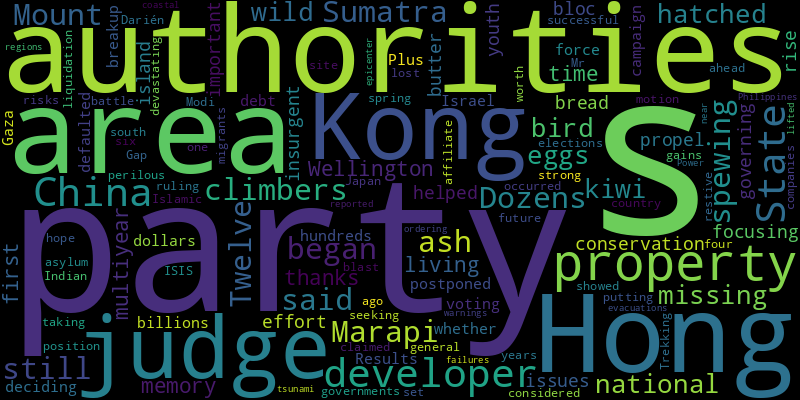
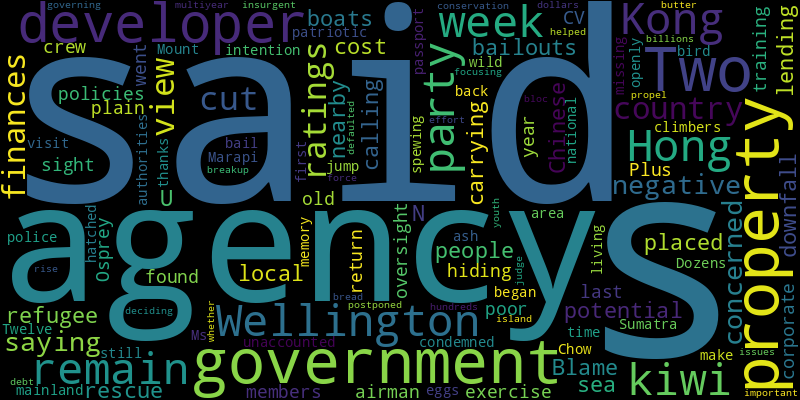
chore(bot): 🤖 auto commit

diff --git a/README.md b/README.md
@@ -2,41 +2,41 @@
 Auto RSS New York Times and Generate Word Cloud
 
 ## New York Times Global News
-* A military spokesman said on Sunday that Israel “continues to expand its ground operation” against Hamas.
-* As refugees, they were welcomed with safety, services and jobs. As the war grinds on, giving that up is not a simple decision.
-* President Nicolás Maduro says an oil-rich part of Guyana belongs to Venezuela. Voters agreed on Sunday, but turnout appeared to be low.
-* Many mothers are grappling with anxiety as their sons head off to fight in Gaza. “It felt like my children were being taken away, one by one, until no one was left,” one said.
-* The blast, which was claimed by the Islamic State, occurred in a restive area in the south that was the site of a devastating battle with an ISIS affiliate six years ago.
-* The authorities said the suspect had serious psychiatric disorders and told the police he was upset over the deaths of Muslims around the world, including in Gaza.
-* In a country with its own history of a seemingly intractable conflict, the majority of people in Ireland are sympathetic to Palestinian civilians, while also condemning the Hamas attacks of Oct. 7.
-* The Israeli media and The New York Times published damaging revelations suggesting that senior officers had ignored or dismissed intelligence reports about the likelihood of a major Hamas attack.
-* As such names have increased, so has media attention to cases of people unhappy with them. But critics say new rules may infringe on the right to be creative.
-* Witness to a tragedy on a boat to Spain, Moustapha Diouf has made it his mission to persuade young people not to emigrate from Senegal, but even he concedes that it’s getting harder to make his case.
+* The New York Times analyzed satellite images showing Israeli armored vehicles outside Khan Younis, the largest city in southern Gaza, where many had sought refuge from weeks of war.
+* Nearly 200 inmates left a high-security Russian prison to join the war in Ukraine, seeking redemption, money or freedom. Many were killed or wounded.
+* Money is a very big sticking point at this year’s United Nations climate summit. Part of the problem is that American promises often go unmet.
+* Residents of a Johannesburg building know it is every bit as dangerous as one that burned in August, killing 77. But it’s a home, one they might not otherwise have, and a place to pursue their dreams and aspirations.
+* Israel has accused Hamas of committing abuses against large numbers of women. Hamas denies the allegations.
+* Evan Gershkovich, a journalist for The Wall Street Journal, is being held on a spying charge that he, his newspaper and the U.S. government deny.
+* An important bloc for the governing party, the island’s youth are focusing on bread-and-butter issues and have helped propel the rise of an insurgent party.
+* A Times visual analysis found that a rocket launched from Gaza on Oct. 7 hit an Israeli military base believed to house nuclear-capable missiles, although it’s likely they were not in danger.
+* The warning, in a letter to congressional leaders, comes as Republican support for funding Kyiv’s war effort is waning, and an emergency funding package is stalled in Congress.
+* Ms. Chow said she had to make a “patriotic” visit to the mainland to get her passport back. The Hong Kong police condemned her intention to “openly jump bail.”
 
 ![Global](./global.png)
 ## New York Times United States News
-* The details of the allegation against the state party chairman, Christian Ziegler, emerged in an affidavit. He has denied any wrongdoing.
-* Liberal-leaning professors are leaving coveted jobs with tenure. And there are signs that recruiting scholars has become harder.
-* Officials believe the man also killed a fourth person in San Dimas, Calif., after following the victim home. The killings happened within four days, authorities said.
-* For decades, nonnative animals have ravaged the rare habitat on Catalina. The proposed solution has infuriated local residents and animal lovers.
-* In sports, the best team doesn’t always win a championship, but it almost always gets an opportunity to try. Tell that to the 13-0 Florida State Seminoles.
-* The justices will hear arguments on Monday about whether members of the wealthy Sackler family can be shielded from liability through a bankruptcy settlement.
-* Donald Trump has long exhibited authoritarian impulses, but his policy operation is now more sophisticated, and the buffers to check him are weaker.
-* A federal appeals court had signed off on a deal that would shield members of the wealthy Sackler family from lawsuits in exchange for billions for those harmed by the opioid epidemic.
+* Manuel Rocha, a former ambassador to Bolivia, secretly aided Cuba’s “clandestine intelligence-gathering mission,” U.S. authorities said.
 * A new study found that California schools got positive results from a targeted investment in the science of reading — even with the challenges of pandemic recovery.
-* Arian Taherzadeh befriended Secret Service employees and gave them lavish gifts, including rent-free apartments, to bolster his fraudulent law enforcement business, prosecutors said.
+* In sports, the best team doesn’t always win a championship, but it almost always gets an opportunity to try. Tell that to the 13-0 Florida State Seminoles.
+* The details of the allegation against the state party chairman, Christian Ziegler, emerged in an affidavit. He has denied any wrongdoing.
+* Trump’s language has become darker, harsher and more threatening during his third run for the White House.
+* In a global exam for 15-year-olds, only a handful of places, including Singapore, Japan and Australia, kept math performance high through the pandemic.
+* Immigrants who worked decades on U.S. farms are reaching retirement age in a country that offers them neither Medicare nor Social Security.
+* The debate, featuring four candidates, will be held on Wednesday from 8 to 10 p.m. Eastern time.
+* Police said that a man had fired a flare gun 30 to 40 times from inside his home. He discharged several more rounds from a firearm during a standoff.
+* Hackers were able to obtain access because some customers reused old passwords, the genetic testing company said.
 
 ![US](./usnews.png)
 ## New York Times Asia News
-* Dozens of climbers were on Mount Marapi in Sumatra when it began spewing ash, the authorities said. Twelve were still missing.
+* The ratings agency cut its view of the country’s finances to negative, saying it was concerned about the potential cost of local government bailouts.
+* Two boats carrying about 400 people have been at sea for weeks, the U.N. refugee agency said, calling on nearby governments to rescue them.
+* Blame for the property developer’s downfall has been placed on Chinese lending policies, but poor corporate oversight was hiding in plain sight.
+* Plus, kiwis return to Wellington.
+* The remains of a 24-year-old airman were found last week after the CV-22 Osprey went down during a training exercise. Two other crew members remain unaccounted for.
+* Ms. Chow said she had to make a “patriotic” visit to the mainland to get her passport back. The Hong Kong police condemned her intention to “openly jump bail.”
+* Dozens of climbers were on Mount Marapi on Sumatra when it began spewing ash, the authorities said. Twelve were still missing.
 * The national bird, the kiwi, has hatched eggs in the wild in the Wellington area for the first time in living memory, thanks to a multiyear conservation effort.
 * An important bloc for the governing party, the island’s youth are focusing on bread-and-butter issues and have helped propel the rise of an insurgent party.
 * A Hong Kong judge postponed deciding whether to force the breakup of the property developer, which defaulted in 2021 on hundreds of billions of dollars in debt.
-* Plus Israel’s campaign in Gaza.
-* Results of voting for the governments of four Indian states showed gains for Mr. Modi’s ruling party, putting him in a strong position ahead of general elections in the spring.
-* A Hong Kong judge could set in motion the liquidation of the property developer, which was once considered one of China’s most successful companies.
-* Trekking the perilous Darién Gap and seeking asylum are risks worth taking for migrants from China who have lost hope in the country’s future.
-* The blast, which was claimed by the Islamic State, occurred in a restive area in the south that was the site of a devastating battle with an ISIS affiliate six years ago.
-* The authorities in Japan and the Philippines lifted tsunami warnings in coastal regions after ordering evacuations. Power failures near the epicenter were reported.
 
 ![Asian](./asian.png)
